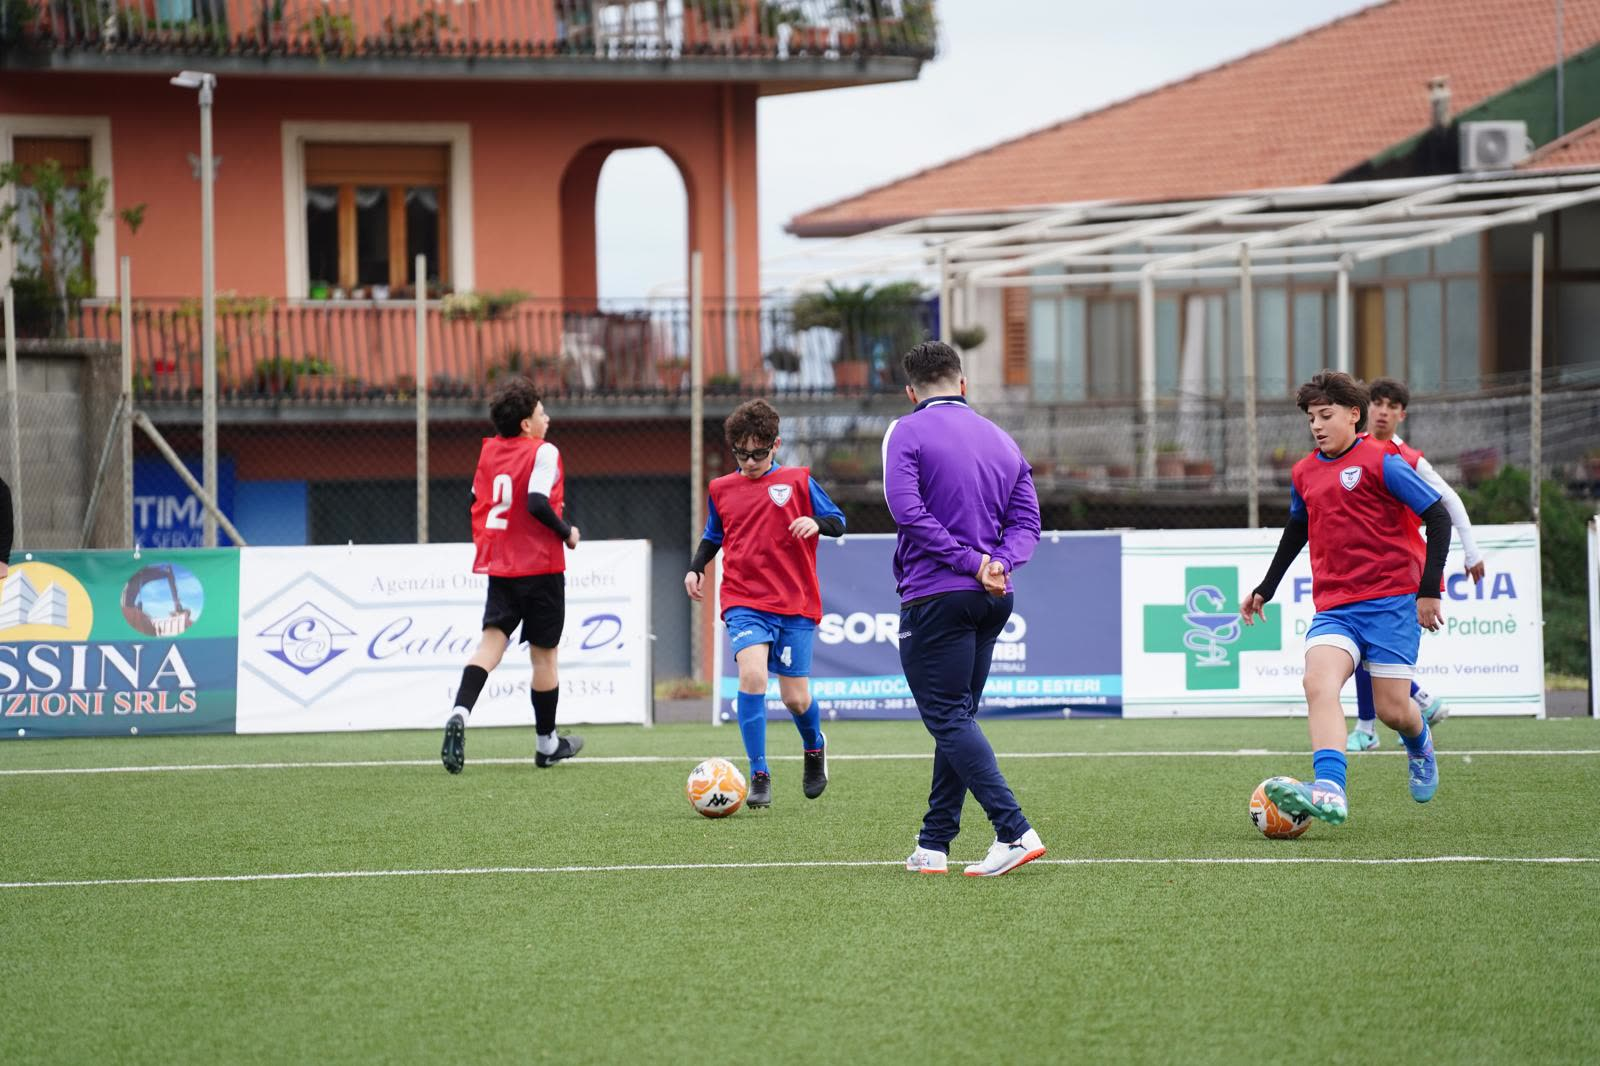
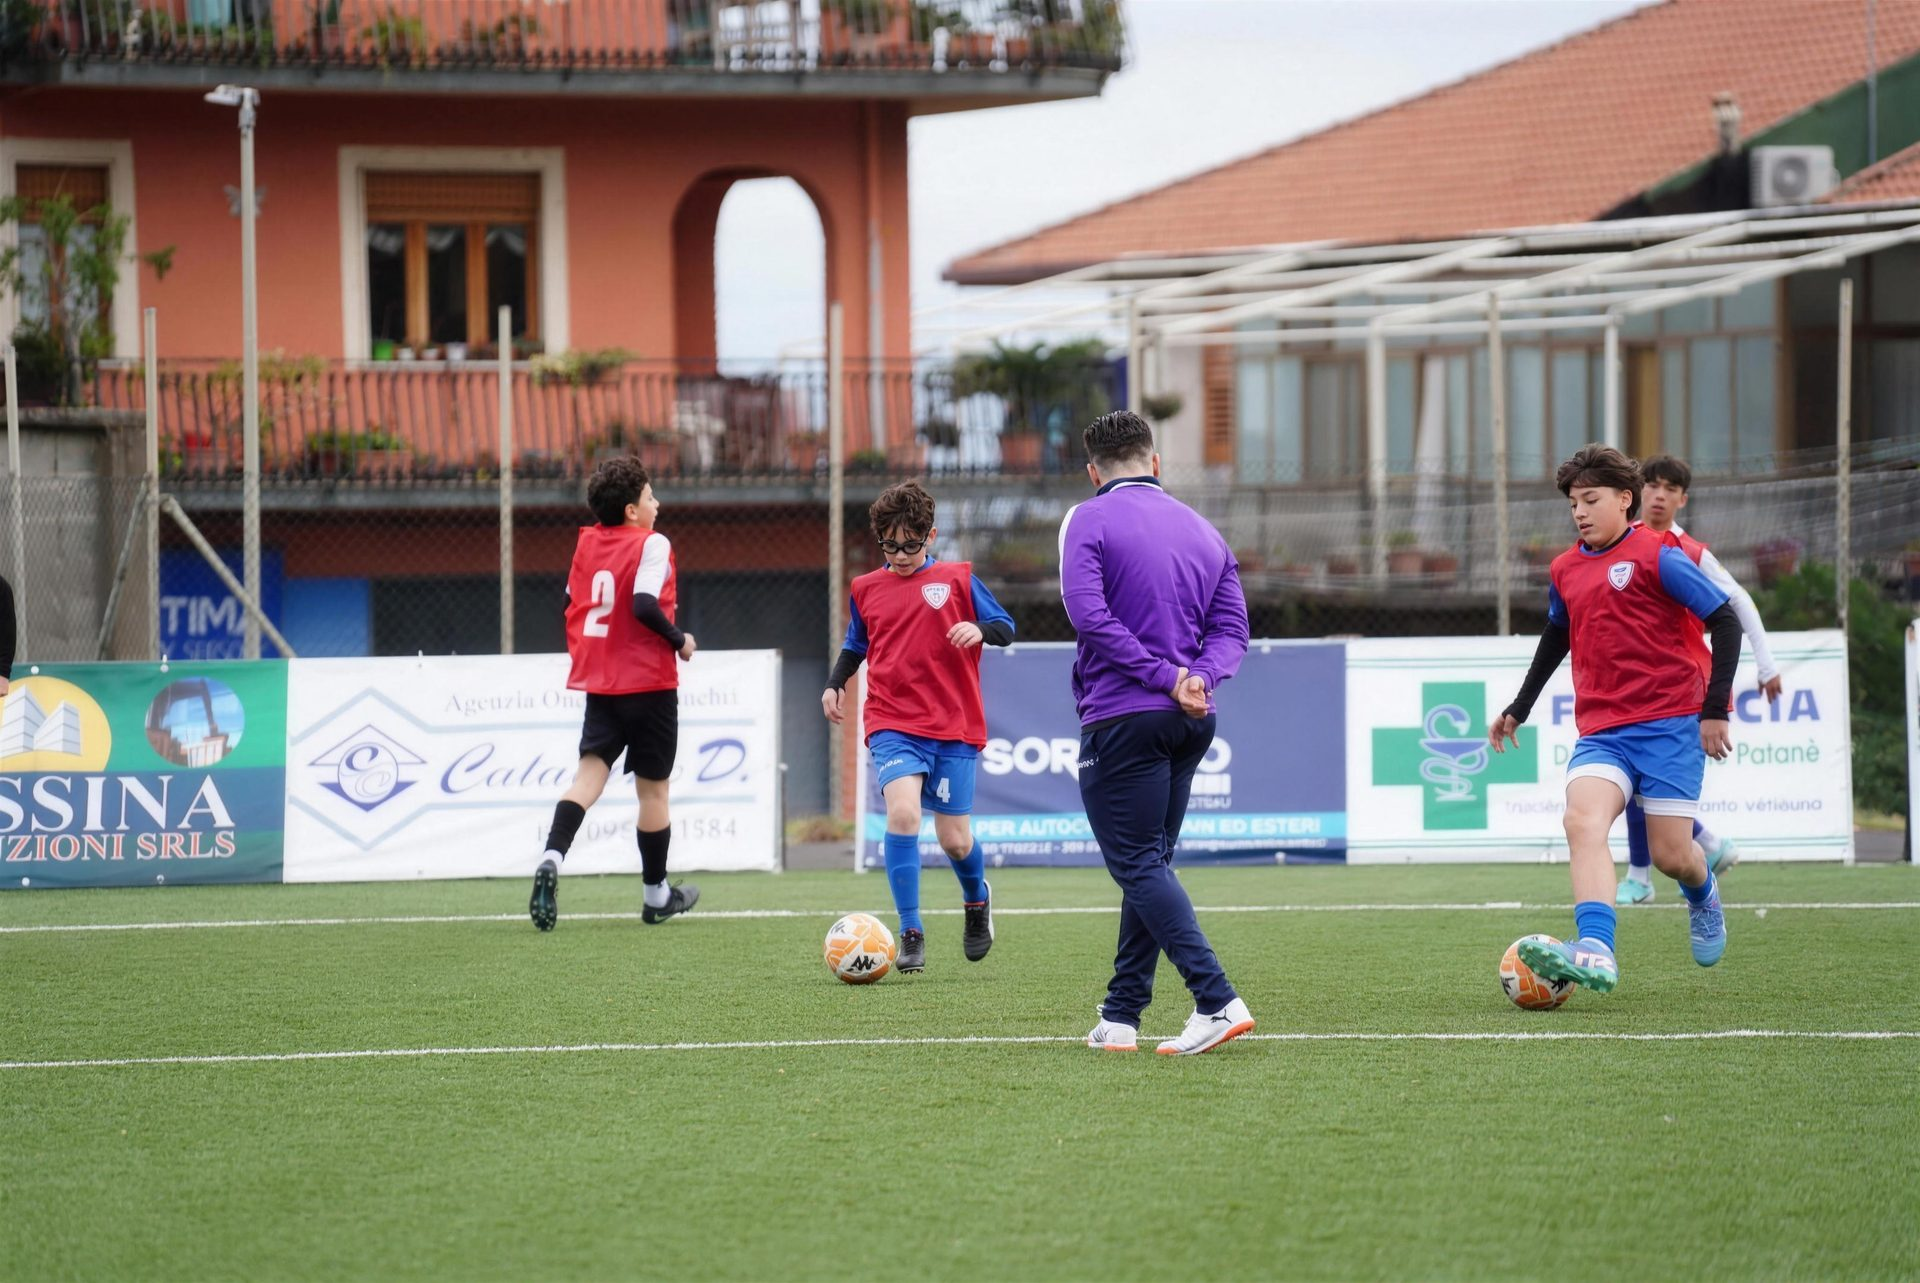
La foto dei bambini a 1920px: niente piu' ingrandimento del browser
Ingrandita con Higgsfield e ridotta a 1920x1283 (330 KB). Misure dichiarate
nel tag img aggiornate.

diff --git a/index.html b/index.html
@@ -326,7 +326,7 @@
   <!-- 7.1 Carosello delle foto -->
   <section class="fascia-foto foto-carousel" id="foto-carousel" aria-label="Il campo, la palestra, la pista">
     <div class="foto-carousel__slide attiva">
-      <img src="assets/foto/hero-3-bambini.jpg" alt="Attività con i bambini" width="1600" height="1066" loading="eager">
+      <img src="assets/foto/hero-3-bambini.jpg" alt="Attività con i bambini" width="1920" height="1283" loading="eager">
     </div>
     <div class="foto-carousel__slide">
       <img src="assets/foto/hero-4-palestra.jpg" alt="Allenamento in palestra" width="1920" height="1280" loading="lazy">
